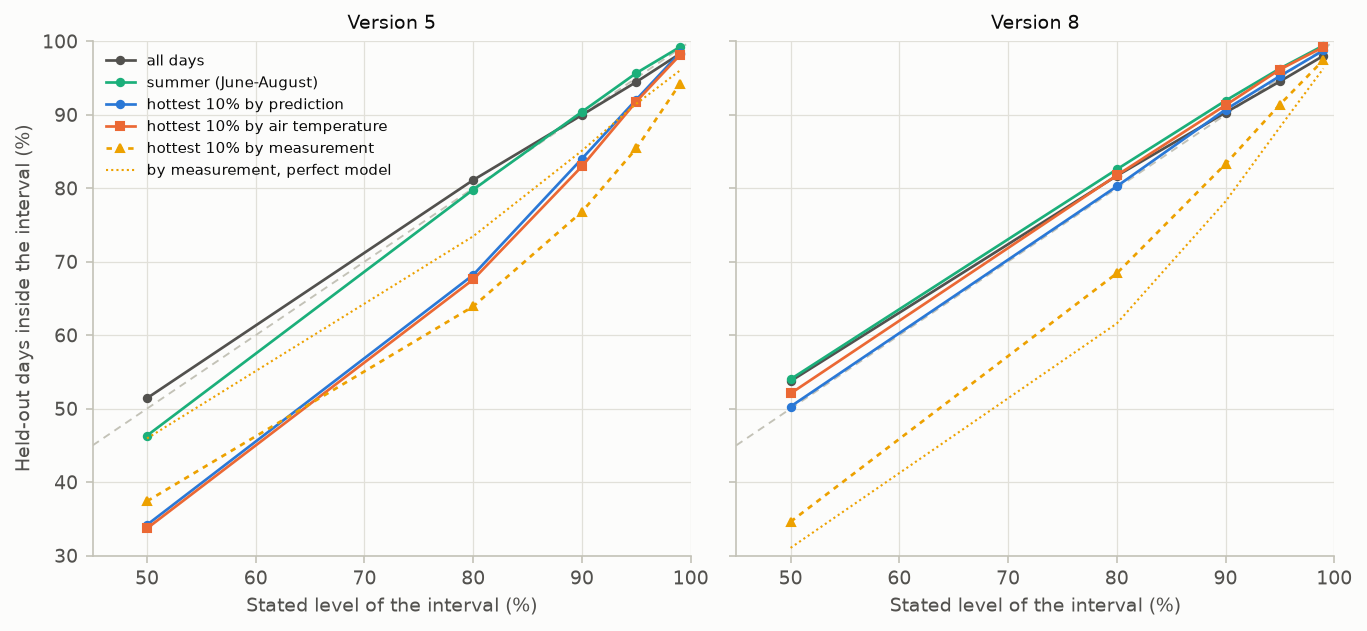
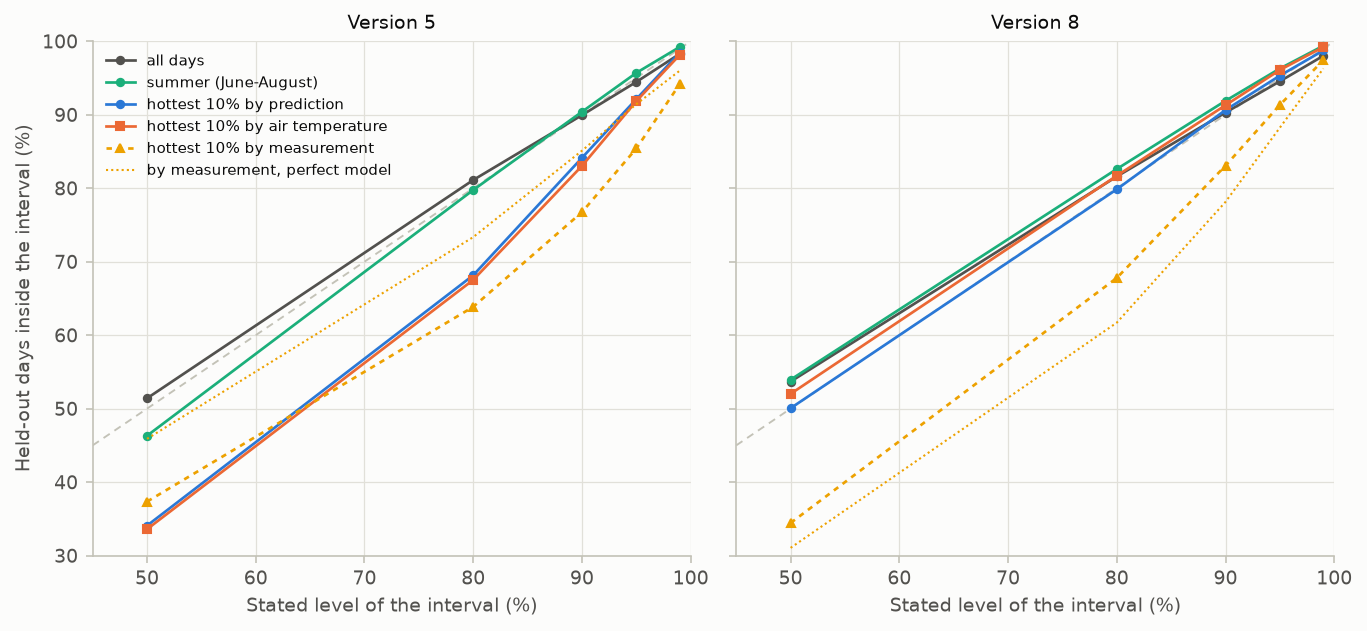
Validation V12-V14 rerun with the DE fix (18 min): V12, V13 PASS; V14 FAIL as before
V12: hiding the inputs changed no held-out year's RMSE by more than 0.007 C
(0.034 before), a 60-day buffer by no more than 0.008 C (0.041 before); much
of the earlier difference was optimizer scatter (another seed: 0.007 C, was
0.017). V13 unchanged; V14 within 0.1 point.

Claude-Session: https://claude.ai/code/session_01JyYTyNnMKAUkaRFLKK2LWV

diff --git a/validation/reports/V14.md b/validation/reports/V14.md
@@ -1,10 +1,10 @@
 # V14. Prediction intervals on the hottest days
 
-[Validation summary](../REPORT.md) · pyair2stream 0.5.0, commit 8860fc3, 2026-10-06 09:42 UTC · run time 2.5 minutes
+[Validation summary](../REPORT.md) · pyair2stream 0.5.0, commit 66372cd, 2026-10-09 01:27 UTC · run time 4.6 minutes
 
 **Result: FAIL.**
 
-Share of held-out daily measurements inside the 90% interval, pooled over the rivers: version 5: all days 90.0%, hottest 10% by prediction 84.0%, by air temperature 83.0%, summer 90.4%; version 8: all days 90.3%, hottest 10% by prediction 90.7%, by air temperature 91.3%, summer 91.9%. On the hottest days chosen by their measured temperature, the measurement lay above the 90% interval on 23.1%, 15.6% and below it on 0.1%, 1.1% of days (version 5, 8); a perfect model gives 14.5% above and 0.4% below, 21.4% above and 0.4% below on the days it would choose this way (5% each on fairly chosen days).
+Share of held-out daily measurements inside the 90% interval, pooled over the rivers: version 5: all days 89.9%, hottest 10% by prediction 84.1%, by air temperature 83.0%, summer 90.4%; version 8: all days 90.3%, hottest 10% by prediction 90.6%, by air temperature 91.3%, summer 91.9%. On the hottest days chosen by their measured temperature, the measurement lay above the 90% interval on 23.1%, 15.8% and below it on 0.1%, 1.1% of days (version 5, 8); a perfect model gives 14.5% above and 0.4% below, 21.5% above and 0.4% below on the days it would choose this way (5% each on fairly chosen days).
 
 ## Question
 
@@ -33,15 +33,15 @@ Each share is the fraction of measured held-out values inside the central range 
 | version | subset | level | share inside | accepted | within |
 |---|---|---|---|---|---|
 | 5 | hottest 10% by prediction | 80% | 68.2% | 70.0%-90.0% | no |
-| 5 | hottest 10% by prediction | 90% | 84.0% | 85.0%-95.0% | no |
+| 5 | hottest 10% by prediction | 90% | 84.1% | 85.0%-95.0% | no |
 | 5 | hottest 10% by prediction | 95% | 92.1% | 92.5%-97.5% | no |
-| 5 | hottest 10% by air temperature | 80% | 67.6% | 70.0%-90.0% | no |
+| 5 | hottest 10% by air temperature | 80% | 67.5% | 70.0%-90.0% | no |
 | 5 | hottest 10% by air temperature | 90% | 83.0% | 85.0%-95.0% | no |
-| 5 | hottest 10% by air temperature | 95% | 91.8% | 92.5%-97.5% | no |
-| 8 | hottest 10% by prediction | 80% | 80.3% | 70.0%-90.0% | yes |
-| 8 | hottest 10% by prediction | 90% | 90.7% | 85.0%-95.0% | yes |
+| 5 | hottest 10% by air temperature | 95% | 91.9% | 92.5%-97.5% | no |
+| 8 | hottest 10% by prediction | 80% | 79.9% | 70.0%-90.0% | yes |
+| 8 | hottest 10% by prediction | 90% | 90.6% | 85.0%-95.0% | yes |
 | 8 | hottest 10% by prediction | 95% | 95.3% | 92.5%-97.5% | yes |
-| 8 | hottest 10% by air temperature | 80% | 81.8% | 70.0%-90.0% | yes |
+| 8 | hottest 10% by air temperature | 80% | 81.7% | 70.0%-90.0% | yes |
 | 8 | hottest 10% by air temperature | 90% | 91.3% | 85.0%-95.0% | yes |
 | 8 | hottest 10% by air temperature | 95% | 96.1% | 92.5%-97.5% | yes |
 
@@ -49,79 +49,79 @@ Each share is the fraction of measured held-out values inside the central range 
 
 | version | scale | subset | values | 50% | 80% | 90% | 95% | 99% | above the 90% interval | below the 90% interval | mean error (predicted - measured) | RMSE |
 |---|---|---|---|---|---|---|---|---|---|---|---|---|
-| 5 | 7-day | all days | 17216 | 53.1% | 84.4% | 92.7% | 96.3% | 99.1% | 3.5% | 3.7% | -0.01 °C | 0.74 °C |
-| 5 | 7-day | summer (June-August) | 4416 | 51.0% | 82.9% | 92.5% | 96.9% | 99.3% | 0.5% | 7.0% | +0.30 °C | 0.75 °C |
-| 5 | 7-day | hottest 10% by prediction | 1724 | 32.3% | 72.6% | 87.5% | 94.8% | 99.0% | 1.2% | 11.4% | +0.47 °C | 0.93 °C |
-| 5 | 7-day | hottest 10% by air temperature | 1724 | 32.0% | 70.1% | 85.6% | 94.1% | 98.5% | 1.3% | 13.1% | +0.50 °C | 0.95 °C |
-| 5 | 7-day | hottest 10% by measurement | 1725 | 44.3% | 72.9% | 86.5% | 90.8% | 97.2% | 13.4% | 0.1% | -0.61 °C | 0.97 °C |
-| 5 | daily | all days | 17504 | 51.4% | 81.1% | 90.0% | 94.5% | 98.3% | 5.2% | 4.9% | -0.00 °C | 0.86 °C |
+| 5 | 7-day | all days | 17216 | 53.1% | 84.4% | 92.8% | 96.4% | 99.1% | 3.5% | 3.7% | -0.01 °C | 0.74 °C |
+| 5 | 7-day | summer (June-August) | 4416 | 50.8% | 82.9% | 92.5% | 96.9% | 99.3% | 0.5% | 7.0% | +0.30 °C | 0.75 °C |
+| 5 | 7-day | hottest 10% by prediction | 1724 | 32.2% | 72.6% | 87.5% | 94.8% | 99.0% | 1.2% | 11.3% | +0.47 °C | 0.93 °C |
+| 5 | 7-day | hottest 10% by air temperature | 1724 | 32.0% | 70.0% | 85.6% | 94.1% | 98.5% | 1.3% | 13.1% | +0.50 °C | 0.95 °C |
+| 5 | 7-day | hottest 10% by measurement | 1725 | 44.2% | 72.9% | 86.5% | 90.7% | 97.2% | 13.4% | 0.1% | -0.61 °C | 0.97 °C |
+| 5 | daily | all days | 17504 | 51.4% | 81.1% | 89.9% | 94.5% | 98.3% | 5.2% | 4.9% | -0.00 °C | 0.86 °C |
 | 5 | daily | summer (June-August) | 4416 | 46.3% | 79.8% | 90.4% | 95.7% | 99.2% | 2.3% | 7.3% | +0.30 °C | 0.85 °C |
-| 5 | daily | hottest 10% by prediction | 1752 | 34.2% | 68.2% | 84.0% | 92.1% | 98.4% | 3.2% | 12.8% | +0.47 °C | 1.02 °C |
-| 5 | daily | hottest 10% by air temperature | 1792 | 33.7% | 67.6% | 83.0% | 91.8% | 98.1% | 3.1% | 14.0% | +0.49 °C | 1.04 °C |
-| 5 | daily | hottest 10% by measurement | 1754 | 37.4% | 63.9% | 76.8% | 85.4% | 94.2% | 23.1% | 0.1% | -0.81 °C | 1.20 °C |
-| 8 | 7-day | all days | 17216 | 59.1% | 87.7% | 93.9% | 96.5% | 98.6% | 3.2% | 2.9% | -0.01 °C | 0.51 °C |
-| 8 | 7-day | summer (June-August) | 4416 | 60.8% | 88.3% | 95.1% | 98.3% | 99.6% | 1.6% | 3.3% | +0.06 °C | 0.46 °C |
-| 8 | 7-day | hottest 10% by prediction | 1724 | 60.6% | 91.4% | 97.5% | 99.2% | 99.5% | 1.0% | 1.5% | +0.00 °C | 0.44 °C |
-| 8 | 7-day | hottest 10% by air temperature | 1724 | 57.9% | 86.4% | 94.4% | 98.4% | 99.5% | 2.3% | 3.3% | +0.06 °C | 0.48 °C |
-| 8 | 7-day | hottest 10% by measurement | 1725 | 43.2% | 82.8% | 92.5% | 96.8% | 98.1% | 6.8% | 0.8% | -0.38 °C | 0.59 °C |
-| 8 | daily | all days | 17504 | 53.7% | 81.7% | 90.3% | 94.5% | 98.0% | 5.1% | 4.6% | -0.01 °C | 0.66 °C |
-| 8 | daily | summer (June-August) | 4416 | 54.0% | 82.6% | 91.9% | 96.3% | 99.4% | 3.4% | 4.7% | +0.06 °C | 0.59 °C |
-| 8 | daily | hottest 10% by prediction | 1752 | 50.3% | 80.3% | 90.7% | 95.3% | 98.7% | 6.0% | 3.3% | -0.07 °C | 0.63 °C |
-| 8 | daily | hottest 10% by air temperature | 1792 | 52.1% | 81.8% | 91.3% | 96.1% | 99.2% | 4.6% | 4.1% | +0.02 °C | 0.61 °C |
-| 8 | daily | hottest 10% by measurement | 1754 | 34.6% | 68.4% | 83.3% | 91.4% | 97.4% | 15.6% | 1.1% | -0.51 °C | 0.79 °C |
+| 5 | daily | hottest 10% by prediction | 1752 | 34.1% | 68.2% | 84.1% | 92.1% | 98.5% | 3.2% | 12.7% | +0.46 °C | 1.02 °C |
+| 5 | daily | hottest 10% by air temperature | 1792 | 33.6% | 67.5% | 83.0% | 91.9% | 98.2% | 3.1% | 13.9% | +0.49 °C | 1.04 °C |
+| 5 | daily | hottest 10% by measurement | 1754 | 37.3% | 63.9% | 76.7% | 85.4% | 94.2% | 23.1% | 0.1% | -0.81 °C | 1.20 °C |
+| 8 | 7-day | all days | 17216 | 59.2% | 87.7% | 93.9% | 96.5% | 98.6% | 3.2% | 2.9% | -0.01 °C | 0.51 °C |
+| 8 | 7-day | summer (June-August) | 4416 | 61.1% | 88.3% | 95.1% | 98.3% | 99.6% | 1.6% | 3.3% | +0.06 °C | 0.46 °C |
+| 8 | 7-day | hottest 10% by prediction | 1724 | 60.8% | 91.4% | 97.4% | 99.2% | 99.5% | 0.9% | 1.6% | +0.00 °C | 0.44 °C |
+| 8 | 7-day | hottest 10% by air temperature | 1724 | 57.9% | 86.4% | 94.4% | 98.4% | 99.5% | 2.3% | 3.4% | +0.06 °C | 0.48 °C |
+| 8 | 7-day | hottest 10% by measurement | 1725 | 43.5% | 82.9% | 92.6% | 96.9% | 98.1% | 6.7% | 0.8% | -0.38 °C | 0.59 °C |
+| 8 | daily | all days | 17504 | 53.7% | 81.6% | 90.3% | 94.5% | 98.0% | 5.1% | 4.6% | -0.01 °C | 0.66 °C |
+| 8 | daily | summer (June-August) | 4416 | 53.9% | 82.6% | 91.9% | 96.3% | 99.4% | 3.4% | 4.7% | +0.06 °C | 0.59 °C |
+| 8 | daily | hottest 10% by prediction | 1752 | 50.1% | 79.9% | 90.6% | 95.3% | 98.7% | 6.1% | 3.3% | -0.07 °C | 0.64 °C |
+| 8 | daily | hottest 10% by air temperature | 1792 | 52.0% | 81.7% | 91.3% | 96.1% | 99.2% | 4.6% | 4.1% | +0.02 °C | 0.61 °C |
+| 8 | daily | hottest 10% by measurement | 1754 | 34.4% | 67.8% | 83.1% | 91.3% | 97.4% | 15.8% | 1.1% | -0.51 °C | 0.79 °C |
 
 **Perfect-model reference: share inside each range when the 'measurement' is one of the simulations** ([csv](../results/V14_3.csv))
 
 | version | scale | subset | perfect model 50% | perfect model 80% | perfect model 90% | perfect model 95% | perfect model 99% | perfect model above the 90% interval | perfect model below the 90% interval |
 |---|---|---|---|---|---|---|---|---|---|
 | 5 | 7-day | all days | 48.6% | 77.0% | 88.0% | 93.8% | 98.3% | 6.4% | 5.6% |
-| 5 | 7-day | summer (June-August) | 53.9% | 80.4% | 89.6% | 95.0% | 98.3% | 3.6% | 6.8% |
-| 5 | 7-day | hottest 10% by prediction | 57.9% | 83.5% | 92.6% | 97.3% | 99.2% | 2.7% | 4.7% |
-| 5 | 7-day | hottest 10% by air temperature | 57.9% | 83.3% | 91.9% | 96.9% | 99.1% | 2.7% | 5.3% |
-| 5 | 7-day | hottest 10% by measurement | 49.2% | 73.3% | 86.4% | 92.7% | 95.9% | 13.2% | 0.5% |
+| 5 | 7-day | summer (June-August) | 53.9% | 80.5% | 89.5% | 95.0% | 98.3% | 3.7% | 6.8% |
+| 5 | 7-day | hottest 10% by prediction | 58.0% | 83.5% | 92.6% | 97.3% | 99.2% | 2.7% | 4.7% |
+| 5 | 7-day | hottest 10% by air temperature | 58.0% | 83.3% | 91.9% | 96.9% | 99.1% | 2.7% | 5.3% |
+| 5 | 7-day | hottest 10% by measurement | 49.1% | 73.3% | 86.3% | 92.6% | 95.9% | 13.2% | 0.5% |
 | 5 | daily | all days | 48.3% | 77.7% | 88.0% | 93.6% | 98.3% | 6.4% | 5.6% |
-| 5 | daily | summer (June-August) | 52.0% | 80.2% | 89.1% | 94.3% | 98.3% | 4.2% | 6.7% |
-| 5 | daily | hottest 10% by prediction | 53.8% | 83.0% | 92.0% | 96.5% | 99.5% | 3.1% | 4.9% |
-| 5 | daily | hottest 10% by air temperature | 53.4% | 82.9% | 91.4% | 95.9% | 99.3% | 3.4% | 5.2% |
-| 5 | daily | hottest 10% by measurement | 45.9% | 73.5% | 85.1% | 91.5% | 96.0% | 14.5% | 0.4% |
+| 5 | daily | summer (June-August) | 51.9% | 80.1% | 89.1% | 94.2% | 98.3% | 4.2% | 6.7% |
+| 5 | daily | hottest 10% by prediction | 53.7% | 83.1% | 92.1% | 96.5% | 99.5% | 3.1% | 4.8% |
+| 5 | daily | hottest 10% by air temperature | 53.3% | 82.9% | 91.4% | 95.9% | 99.3% | 3.4% | 5.2% |
+| 5 | daily | hottest 10% by measurement | 45.9% | 73.3% | 85.1% | 91.4% | 96.0% | 14.5% | 0.4% |
 | 8 | 7-day | all days | 50.7% | 80.7% | 90.6% | 95.4% | 98.9% | 5.0% | 4.4% |
 | 8 | 7-day | summer (June-August) | 49.3% | 81.1% | 90.2% | 94.7% | 98.9% | 5.8% | 4.0% |
-| 8 | 7-day | hottest 10% by prediction | 47.5% | 81.9% | 91.2% | 95.2% | 99.4% | 3.6% | 5.2% |
+| 8 | 7-day | hottest 10% by prediction | 47.5% | 81.9% | 91.2% | 95.2% | 99.4% | 3.7% | 5.2% |
 | 8 | 7-day | hottest 10% by air temperature | 45.9% | 80.5% | 90.3% | 94.6% | 99.4% | 5.6% | 4.1% |
 | 8 | 7-day | hottest 10% by measurement | 28.3% | 61.2% | 78.5% | 87.9% | 96.4% | 20.7% | 0.8% |
-| 8 | daily | all days | 50.3% | 80.3% | 90.4% | 95.2% | 98.9% | 5.1% | 4.4% |
-| 8 | daily | summer (June-August) | 49.7% | 80.3% | 90.4% | 95.0% | 98.7% | 6.1% | 3.5% |
-| 8 | daily | hottest 10% by prediction | 50.0% | 80.9% | 91.1% | 95.4% | 99.1% | 4.5% | 4.4% |
-| 8 | daily | hottest 10% by air temperature | 48.0% | 79.0% | 90.3% | 95.5% | 99.1% | 5.9% | 3.8% |
-| 8 | daily | hottest 10% by measurement | 31.1% | 61.6% | 78.2% | 88.3% | 96.3% | 21.4% | 0.4% |
+| 8 | daily | all days | 50.2% | 80.3% | 90.4% | 95.2% | 98.9% | 5.2% | 4.4% |
+| 8 | daily | summer (June-August) | 49.6% | 80.3% | 90.4% | 95.0% | 98.7% | 6.1% | 3.5% |
+| 8 | daily | hottest 10% by prediction | 49.7% | 80.8% | 91.0% | 95.4% | 99.2% | 4.6% | 4.4% |
+| 8 | daily | hottest 10% by air temperature | 48.0% | 79.1% | 90.2% | 95.5% | 99.1% | 6.0% | 3.8% |
+| 8 | daily | hottest 10% by measurement | 31.1% | 61.7% | 78.1% | 88.2% | 96.3% | 21.5% | 0.4% |
 
 **By river: daily values inside the 90% interval and mean error** ([csv](../results/V14_4.csv))
 
 | river | version | subset | days | inside 90% | above | below | mean error (predicted - measured) | RMSE |
 |---|---|---|---|---|---|---|---|---|
-| Dischmabach | 5 | all days | 3287 | 89.5% | 3.5% | 7.0% | -0.05 °C | 0.76 °C |
+| Dischmabach | 5 | all days | 3287 | 89.6% | 3.5% | 6.9% | -0.05 °C | 0.76 °C |
 | Dischmabach | 5 | hottest 10% by prediction | 329 | 80.9% | 11.6% | 7.6% | -0.35 °C | 0.98 °C |
-| Dischmabach | 5 | hottest 10% by air temperature | 329 | 75.4% | 11.6% | 13.1% | -0.20 °C | 1.07 °C |
-| Dischmabach | 8 | all days | 3287 | 88.5% | 6.1% | 5.4% | -0.05 °C | 0.65 °C |
+| Dischmabach | 5 | hottest 10% by air temperature | 329 | 75.4% | 11.6% | 13.1% | -0.20 °C | 1.06 °C |
+| Dischmabach | 8 | all days | 3287 | 88.7% | 6.0% | 5.3% | -0.05 °C | 0.65 °C |
 | Dischmabach | 8 | hottest 10% by prediction | 329 | 95.4% | 4.0% | 0.6% | -0.24 °C | 0.51 °C |
-| Dischmabach | 8 | hottest 10% by air temperature | 329 | 90.6% | 4.9% | 4.6% | -0.10 °C | 0.59 °C |
-| Mentue | 5 | all days | 3652 | 89.4% | 5.2% | 5.4% | -0.01 °C | 0.72 °C |
+| Dischmabach | 8 | hottest 10% by air temperature | 329 | 90.6% | 4.9% | 4.6% | -0.09 °C | 0.59 °C |
+| Mentue | 5 | all days | 3652 | 89.3% | 5.3% | 5.4% | -0.01 °C | 0.72 °C |
 | Mentue | 5 | hottest 10% by prediction | 366 | 91.8% | 4.4% | 3.8% | -0.06 °C | 0.62 °C |
-| Mentue | 5 | hottest 10% by air temperature | 366 | 93.4% | 3.6% | 3.0% | -0.09 °C | 0.60 °C |
+| Mentue | 5 | hottest 10% by air temperature | 366 | 93.4% | 3.6% | 3.0% | -0.10 °C | 0.60 °C |
 | Mentue | 8 | all days | 3652 | 89.7% | 5.0% | 5.3% | +0.00 °C | 0.70 °C |
 | Mentue | 8 | hottest 10% by prediction | 366 | 90.7% | 1.1% | 8.2% | +0.26 °C | 0.67 °C |
 | Mentue | 8 | hottest 10% by air temperature | 366 | 91.8% | 1.1% | 7.1% | +0.18 °C | 0.65 °C |
 | Rhône | 5 | all days | 10565 | 90.3% | 5.7% | 4.0% | +0.01 °C | 0.93 °C |
-| Rhône | 5 | hottest 10% by prediction | 1057 | 82.3% | 0.2% | 17.5% | +0.90 °C | 1.14 °C |
-| Rhône | 5 | hottest 10% by air temperature | 1097 | 81.8% | 0.4% | 17.9% | +0.89 °C | 1.14 °C |
-| Rhône | 8 | all days | 10565 | 91.0% | 4.8% | 4.1% | +0.00 °C | 0.64 °C |
-| Rhône | 8 | hottest 10% by prediction | 1057 | 89.2% | 8.3% | 2.5% | -0.14 °C | 0.66 °C |
-| Rhône | 8 | hottest 10% by air temperature | 1097 | 91.3% | 5.7% | 3.0% | +0.01 °C | 0.60 °C |
+| Rhône | 5 | hottest 10% by prediction | 1057 | 82.5% | 0.2% | 17.3% | +0.90 °C | 1.14 °C |
+| Rhône | 5 | hottest 10% by air temperature | 1097 | 81.9% | 0.4% | 17.8% | +0.89 °C | 1.14 °C |
+| Rhône | 8 | all days | 10565 | 91.0% | 4.9% | 4.2% | +0.00 °C | 0.64 °C |
+| Rhône | 8 | hottest 10% by prediction | 1057 | 89.1% | 8.5% | 2.4% | -0.13 °C | 0.66 °C |
+| Rhône | 8 | hottest 10% by air temperature | 1097 | 91.3% | 5.7% | 2.9% | +0.01 °C | 0.60 °C |
 
 ## What this means
 
-Version 5: on the days predicted to be hottest the 90% interval held 84.0% of the time, against 90.0% on all days; the measurement lay above it on 3.2% and below it on 12.8% of those days (5% each if right). The model's RMSE on those days was 1.02 °C, against 0.86 °C on all days, and its mean error +0.47 °C (positive: predicted too warm). The interval holds less often there than on average: the model's error on its hottest predictions is not its typical error, as V11 found for yearly peaks. Check intervals on hot days at your site.
+Version 5: on the days predicted to be hottest the 90% interval held 84.1% of the time, against 89.9% on all days; the measurement lay above it on 3.2% and below it on 12.7% of those days (5% each if right). The model's RMSE on those days was 1.02 °C, against 0.86 °C on all days, and its mean error +0.46 °C (positive: predicted too warm). The interval holds less often there than on average: the model's error on its hottest predictions is not its typical error, as V11 found for yearly peaks. Check intervals on hot days at your site.
 
-Version 8: on the days predicted to be hottest the 90% interval held 90.7% of the time, against 90.3% on all days; the measurement lay above it on 6.0% and below it on 3.3% of those days (5% each if right). The model's RMSE on those days was 0.63 °C, against 0.66 °C on all days, and its mean error -0.07 °C (positive: predicted too warm).
+Version 8: on the days predicted to be hottest the 90% interval held 90.6% of the time, against 90.3% on all days; the measurement lay above it on 6.1% and below it on 3.3% of those days (5% each if right). The model's RMSE on those days was 0.64 °C, against 0.66 °C on all days, and its mean error -0.07 °C (positive: predicted too warm).
 
 Checking an interval only on the days when the measured temperature was highest (for example, the days a limit was exceeded) is a biased test: those days were chosen partly because their error was positive, so even for a correct interval the measurement lies above it more often than stated and below it less often. Here a perfect model had the 'measurement' above its 90% interval on 14%-21% of such days, instead of 5%. To check intervals on hot days, choose the days by the prediction or by the air temperature, as here.

diff --git a/validation/reports/V12.md b/validation/reports/V12.md
@@ -1,10 +1,10 @@
 # V12. Cross-validation design: what is hidden, and from which years
 
-[Validation summary](../REPORT.md) · pyair2stream 0.5.0, commit 13e8f81, 2026-10-06 09:18 UTC · run time 9.3 minutes
+[Validation summary](../REPORT.md) · pyair2stream 0.5.0, commit 66372cd, 2026-10-09 01:27 UTC · run time 12.6 minutes
 
 **Result: PASS.**
 
-Over 96 held-out river-years, hiding the inputs during calibration changed no year's RMSE by more than 0.034 °C (another optimizer seed alone: 0.017 °C), and the share of days inside the 90% interval from 90.1% to 90.1%; a 60-day buffer changed no year's RMSE by more than 0.041 °C. Calibrating on earlier years only gave, on its 78 years, an RMSE of 0.787 °C against 0.786 °C, 90% intervals that held on 87.1% of days against 89.6%, and a training-year sigma of 0.69 °C against 0.75 °C.
+Over 96 held-out river-years, hiding the inputs during calibration changed no year's RMSE by more than 0.007 °C (another optimizer seed alone: 0.007 °C), and the share of days inside the 90% interval from 90.1% to 90.1%; a 60-day buffer changed no year's RMSE by more than 0.008 °C. Calibrating on earlier years only gave, on its 78 years, an RMSE of 0.787 °C against 0.785 °C, 90% intervals that held on 87.1% of days against 89.6%, and a training-year sigma of 0.69 °C against 0.75 °C.
 
 ## Question
 
@@ -38,22 +38,22 @@ Every variant is compared with its reference (B with B0, the others with A) on t
 | variant | compared with | years | RMSE (°C) | RMSE of reference, same years | largest change in a year's RMSE | days inside 90% | reference, same years | 7-day means inside 90% | highest daily mean: inside 90% range | highest daily mean: mean error | highest 7-day mean: inside 90% range | highest 7-day mean: mean error | days above threshold: inside 90% range | days above threshold: mean error |
 |---|---|---|---|---|---|---|---|---|---|---|---|---|---|---|
 | A: default: the year's water temperatures hidden | A | 96 | 0.764 | 0.764 | 0 | 90.1% | 90.1% | 93.3% | 80% (A 80%) | -0.12 (A -0.12) °C | 79% (A 79%) | -0.34 (A -0.34) °C | 85% (A 85%) | -3.79 (A -3.79) days |
-| A2: default, another optimizer seed | A | 96 | 0.764 | 0.764 | 0.017 | 90.1% | 90.1% | 93.3% | 80% (A 80%) | -0.12 (A -0.12) °C | 79% (A 79%) | -0.34 (A -0.34) °C | 85% (A 85%) | -3.78 (A -3.79) days |
-| B0: gap-tolerant mode, nothing else hidden | A | 96 | 0.764 | 0.764 | 0.029 | 90.1% | 90.1% | 93.3% | 80% (A 80%) | -0.12 (A -0.12) °C | 79% (A 79%) | -0.34 (A -0.34) °C | 85% (A 85%) | -3.78 (A -3.79) days |
-| B: inputs also hidden during calibration | B0 | 96 | 0.765 | 0.764 | 0.034 | 90.1% | 90.1% | 93.3% | 81% (B0 80%) | -0.12 (B0 -0.12) °C | 79% (B0 79%) | -0.34 (B0 -0.34) °C | 85% (B0 85%) | -3.84 (B0 -3.78) days |
-| D: 60-day buffer around the year | A | 96 | 0.765 | 0.764 | 0.041 | 90.0% | 90.1% | 93.2% | 81% (A 80%) | -0.13 (A -0.12) °C | 80% (A 79%) | -0.34 (A -0.34) °C | 85% (A 85%) | -3.90 (A -3.79) days |
-| C: forward only: calibrated on earlier years | A | 78 | 0.787 | 0.786 | 0.061 | 87.1% | 89.6% | 90.6% | 73% (A 79%) | +0.04 (A -0.06) °C | 82% (A 78%) | -0.25 (A -0.33) °C | 82% (A 83%) | -1.82 (A -3.88) days |
+| A2: default, another optimizer seed | A | 96 | 0.764 | 0.764 | 0.007 | 90.1% | 90.1% | 93.3% | 80% (A 80%) | -0.12 (A -0.12) °C | 80% (A 79%) | -0.34 (A -0.34) °C | 85% (A 85%) | -3.80 (A -3.79) days |
+| B0: gap-tolerant mode, nothing else hidden | A | 96 | 0.764 | 0.764 | 0.004 | 90.1% | 90.1% | 93.3% | 80% (A 80%) | -0.12 (A -0.12) °C | 79% (A 79%) | -0.34 (A -0.34) °C | 85% (A 85%) | -3.77 (A -3.79) days |
+| B: inputs also hidden during calibration | B0 | 96 | 0.764 | 0.764 | 0.007 | 90.1% | 90.1% | 93.3% | 80% (B0 80%) | -0.12 (B0 -0.12) °C | 79% (B0 79%) | -0.34 (B0 -0.34) °C | 85% (B0 85%) | -3.77 (B0 -3.77) days |
+| D: 60-day buffer around the year | A | 96 | 0.765 | 0.764 | 0.008 | 90.1% | 90.1% | 93.2% | 80% (A 80%) | -0.12 (A -0.12) °C | 80% (A 79%) | -0.34 (A -0.34) °C | 85% (A 85%) | -3.83 (A -3.79) days |
+| C: forward only: calibrated on earlier years | A | 78 | 0.787 | 0.785 | 0.062 | 87.1% | 89.6% | 90.6% | 73% (A 79%) | +0.04 (A -0.06) °C | 82% (A 78%) | -0.24 (A -0.33) °C | 82% (A 83%) | -1.72 (A -3.90) days |
 
 **By river and version** ([csv](../results/V12_2.csv))
 
 | river | version | years | RMSE A | RMSE B0 | RMSE B (inputs hidden) | years forward | RMSE A, same years | RMSE C (forward) | days inside 90%: A, same years | days inside 90%: C | sigma: A, same years | sigma: C |
 |---|---|---|---|---|---|---|---|---|---|---|---|---|
 | Dischmabach | 5 | 9 | 0.756 | 0.756 | 0.756 | 6 | 0.766 | 0.767 | 89.0% | 88.1% | 0.745 | 0.726 |
-| Dischmabach | 8 | 9 | 0.65 | 0.651 | 0.651 | 6 | 0.647 | 0.652 | 88.5% | 88.0% | 0.636 | 0.632 |
-| Mentue | 5 | 10 | 0.717 | 0.717 | 0.717 | 7 | 0.758 | 0.758 | 87.8% | 86.0% | 0.698 | 0.659 |
-| Mentue | 8 | 10 | 0.702 | 0.702 | 0.703 | 7 | 0.731 | 0.738 | 88.7% | 86.9% | 0.669 | 0.638 |
+| Dischmabach | 8 | 9 | 0.65 | 0.65 | 0.651 | 6 | 0.647 | 0.652 | 88.5% | 88.0% | 0.636 | 0.632 |
+| Mentue | 5 | 10 | 0.717 | 0.717 | 0.717 | 7 | 0.758 | 0.758 | 87.7% | 86.0% | 0.698 | 0.659 |
+| Mentue | 8 | 10 | 0.702 | 0.702 | 0.702 | 7 | 0.731 | 0.732 | 88.7% | 86.6% | 0.669 | 0.629 |
 | Rhône | 5 | 29 | 0.931 | 0.931 | 0.931 | 26 | 0.946 | 0.946 | 89.9% | 87.2% | 0.924 | 0.854 |
-| Rhône | 8 | 29 | 0.64 | 0.641 | 0.642 | 26 | 0.653 | 0.656 | 90.4% | 86.9% | 0.629 | 0.561 |
+| Rhône | 8 | 29 | 0.64 | 0.64 | 0.64 | 26 | 0.653 | 0.655 | 90.5% | 86.9% | 0.629 | 0.561 |
 
 ### Parameters and their jackknife intervals
 
@@ -63,17 +63,15 @@ Change of each fold's parameters in units of A's jackknife standard error, and t
 
 | river | version | folds | A2 against A: folds with a parameter moved > 2 SE | A2 against A: jackknife SE ratio, median (range) | B against B0: folds with a parameter moved > 2 SE | B against B0: jackknife SE ratio, median (range) |
 |---|---|---|---|---|---|---|
-| Dischmabach | 5 | 9 | 0 | 0.93 (0.00-1.02) | 0 | 1.05 (0.00-1.32) |
-| Dischmabach | 8 | 9 | 0 | 0.35 (0.00-1.03) | 0 | 0.57 (0.32-1.09) |
-| Mentue | 5 | 10 | 0 | 0.94 (0.78-1.05) | 0 | 0.99 (0.99-1.02) |
-| Mentue | 8 | 10 | 1 | 1.55 (1.15-5.38) | 1 | 3.40 (1.22-3.99) |
-| Rhône | 5 | 29 | 0 | 0.87 (0.79-0.95) | 0 | 0.80 (0.75-0.97) |
-| Rhône | 8 | 29 | 0 | 0.95 (0.83-1.05) | 1 | 1.17 (0.66-5.41) |
+| Dischmabach | 5 | 9 | 0 | 1.01 (0.83-1.84) | 0 | 0.98 (0.97-1.36) |
+| Dischmabach | 8 | 9 | 0 | 0.74 (0.00-1.10) | 0 | 0.92 (0.00-1.31) |
+| Mentue | 5 | 10 | 0 | 0.99 (0.96-1.00) | 0 | 1.03 (1.02-1.06) |
+| Mentue | 8 | 10 | 0 | 1.04 (0.98-1.18) | 0 | 1.07 (1.02-1.17) |
+| Rhône | 5 | 29 | 0 | 0.65 (0.55-0.96) | 0 | 0.87 (0.80-0.92) |
+| Rhône | 8 | 29 | 0 | 1.06 (0.92-1.10) | 0 | 1.09 (0.99-1.23) |
 
 ## What this means
 
 Hiding the inputs changed no result by more than the tolerance, as expected: the model never uses measured water temperature, only air temperature and discharge, so hiding a year's water temperatures removes all of that year's information about the answer. The inputs are needed to predict the year, in cross-validation as in any use of the model; during calibration they only shape the first days to weeks of the following year. Nor did the buffer: whole years are long compared with the time the model's errors persist.
 
 Calibrating on earlier years only is the test for forecasting into a changing future. Here its 90% intervals held 2.5 percentage points less often than the default's on the same years, because the error size estimated from fewer, earlier years (0.69 °C) was smaller than that from all other years (0.75 °C). V5 (the later years of each record) tests the same situation with DE-MCMC. For predictions of future years, quote V5 and V10 as well as the cross-validation.
-
-With another optimizer seed alone, 1 fold ended on parameters more than 2 jackknife standard errors away, with almost the same fit: parameters that trade off (equifinality) make single folds unstable, and the jackknife standard errors inherit this (see the table). Read the jackknife intervals of poorly determined parameters as indicative, and check them with a second seed.

diff --git a/validation/REPORT.md b/validation/REPORT.md
@@ -26,14 +26,14 @@ Generated by `validation/run_all.py`. This page summarises each check; its full 
 
 | | |
 |---|---|
-| Date | 2026-10-09 01:08 UTC |
-| pyair2stream | 0.5.0, commit 46b9d02 at the start of the run |
+| Date | 2026-10-09 01:27 UTC |
+| pyair2stream | 0.5.0, commit 66372cd at the start of the run |
 | Mode | full |
-| Run time | 34.7 minutes |
+| Run time | 18.2 minutes |
 | Python | 3.11.15 |
 | Packages | numpy 2.4.6, scipy 1.17.1, pandas 3.0.6, emcee 3.1.6, numba 0.68.0 |
 | Machine | Linux x86_64, 4 CPUs |
-| Other checks | V1, V2, V3: run of 2026-10-08 23:09 UTC (pyair2stream 0.5.0, commit 54bc6df at the start of the run, full mode) · V4: run of 2026-10-09 00:33 UTC (pyair2stream 0.5.0, commit 4bf3843 at the start of the run, full mode) · V12: run of 2026-10-06 09:18 UTC (pyair2stream 0.5.0, commit 13e8f81 at the start of the run, full mode) · V13: run of 2026-10-06 09:39 UTC (pyair2stream 0.5.0, commit 13faeb2 at the start of the run, full mode) · V14: run of 2026-10-06 09:42 UTC (pyair2stream 0.5.0, commit 8860fc3 at the start of the run, full mode) · V15: run of 2026-10-08 22:13 UTC (pyair2stream 0.5.0, commit e48e3c4 at the start of the run, full mode) |
+| Other checks | V1, V2, V3: run of 2026-10-08 23:09 UTC (pyair2stream 0.5.0, commit 54bc6df at the start of the run, full mode) · V4: run of 2026-10-09 00:33 UTC (pyair2stream 0.5.0, commit 4bf3843 at the start of the run, full mode) · V5, V6, V7, V8, V9, V10, V11: run of 2026-10-09 01:08 UTC (pyair2stream 0.5.0, commit 46b9d02 at the start of the run, full mode) · V15: run of 2026-10-08 22:13 UTC (pyair2stream 0.5.0, commit e48e3c4 at the start of the run, full mode) |
 
 ## V1
 
@@ -230,7 +230,7 @@ Over 48 held-out river-years per version, the uncorrected 90% ranges held in 73%
 
 **Result: PASS.**
 
-Over 96 held-out river-years, hiding the inputs during calibration changed no year's RMSE by more than 0.034 °C (another optimizer seed alone: 0.017 °C), and the share of days inside the 90% interval from 90.1% to 90.1%; a 60-day buffer changed no year's RMSE by more than 0.041 °C. Calibrating on earlier years only gave, on its 78 years, an RMSE of 0.787 °C against 0.786 °C, 90% intervals that held on 87.1% of days against 89.6%, and a training-year sigma of 0.69 °C against 0.75 °C.
+Over 96 held-out river-years, hiding the inputs during calibration changed no year's RMSE by more than 0.007 °C (another optimizer seed alone: 0.007 °C), and the share of days inside the 90% interval from 90.1% to 90.1%; a 60-day buffer changed no year's RMSE by more than 0.008 °C. Calibrating on earlier years only gave, on its 78 years, an RMSE of 0.787 °C against 0.785 °C, 90% intervals that held on 87.1% of days against 89.6%, and a training-year sigma of 0.69 °C against 0.75 °C.
 
 ![Left: change in each held-out year's RMSE when the optimizer seed changes, when the year's inputs are hidden during calibration (against gap-tolerant mode with the inputs kept), with a 60-day buffer, and when only earlier years are used (shaded: ±0.05 °C). Right: share of held-out days inside the 90% interval, default against forward only, on the same years.](figures/V12_variants.png)
 
@@ -262,7 +262,7 @@ Over 96 held-out river-years, hiding the inputs during calibration changed no ye
 
 **Result: FAIL.**
 
-Share of held-out daily measurements inside the 90% interval, pooled over the rivers: version 5: all days 90.0%, hottest 10% by prediction 84.0%, by air temperature 83.0%, summer 90.4%; version 8: all days 90.3%, hottest 10% by prediction 90.7%, by air temperature 91.3%, summer 91.9%. On the hottest days chosen by their measured temperature, the measurement lay above the 90% interval on 23.1%, 15.6% and below it on 0.1%, 1.1% of days (version 5, 8); a perfect model gives 14.5% above and 0.4% below, 21.4% above and 0.4% below on the days it would choose this way (5% each on fairly chosen days).
+Share of held-out daily measurements inside the 90% interval, pooled over the rivers: version 5: all days 89.9%, hottest 10% by prediction 84.1%, by air temperature 83.0%, summer 90.4%; version 8: all days 90.3%, hottest 10% by prediction 90.6%, by air temperature 91.3%, summer 91.9%. On the hottest days chosen by their measured temperature, the measurement lay above the 90% interval on 23.1%, 15.8% and below it on 0.1%, 1.1% of days (version 5, 8); a perfect model gives 14.5% above and 0.4% below, 21.5% above and 0.4% below on the days it would choose this way (5% each on fairly chosen days).
 
 ![Share of held-out daily measurements inside the interval at each stated level, by subset of days. On the grey diagonal the interval holds. Days chosen by their measured temperature (dashed) are a biased selection: even a perfect model (dotted) departs from the diagonal there.](figures/V14_hot_days.png)
 

diff --git a/validation/reports/V13.md b/validation/reports/V13.md
@@ -1,6 +1,6 @@
 # V13. Reproduces the 2015 published results
 
-[Validation summary](../REPORT.md) · pyair2stream 0.5.0, commit 13faeb2, 2026-10-06 09:39 UTC · run time 1.0 minutes
+[Validation summary](../REPORT.md) · pyair2stream 0.5.0, commit 66372cd, 2026-10-09 01:27 UTC · run time 1.0 minutes
 
 **Result: PASS.**
 
@@ -60,17 +60,17 @@ DE with RK4 on the calibration years, the RMS objective and the authors' paramet
 | river | version | published cal RMSE | published parameters with RK4 | DE with RK4 | DE minus published parameters | largest parameter difference (% of range) | same parameters | a1 | a2 | a3 | a4 | a5 | a6 | a7 | a8 |
 |---|---|---|---|---|---|---|---|---|---|---|---|---|---|---|---|
 | Mentue | 8 | 0.62 | 0.615 | 0.6152 | -0 | 0.04 | yes | 0.890 | 0.650 | 0.766 | 0.129 | 2.324 | 1.539 | 0.603 | 0.242 |
-| Mentue | 7 | 0.62 | 0.624 | 0.6236 | -0 | 0 | yes | 0.912 | 0.623 | 0.741 |  | 1.764 | 1.189 | 0.607 | 0.182 |
-| Mentue | 5 | 0.65 | 0.648 | 0.6476 | -0 | 0.03 | yes | 3.149 | 0.708 | 1.059 |  |  | 1.632 | 0.585 |  |
+| Mentue | 7 | 0.62 | 0.624 | 0.6236 | -0 | 0 | yes | 0.912 | 0.623 | 0.741 |  | 1.765 | 1.189 | 0.607 | 0.182 |
+| Mentue | 5 | 0.65 | 0.648 | 0.6476 | -0 | 0.03 | yes | 3.148 | 0.708 | 1.059 |  |  | 1.632 | 0.585 |  |
 | Mentue | 4 | 0.77 | 0.768 | 0.7677 | -0 | 0.01 | yes | 0.935 | 0.504 | 0.620 | 0.212 |  |  |  |  |
-| Mentue | 3 | 0.78 | 0.775 | 0.775 | -0 | 0 | yes | 1.002 | 0.549 | 0.674 |  |  |  |  |  |
-| Rhône | 8 | 0.58 | 0.581 | 0.581 | -0 | 0.29 | yes | 0.342 | 0.217 | 0.176 | 0.723 | 7.716 | 2.201 | 0.529 | 1.270 |
-| Rhône | 7 | 0.61 | 0.609 | 0.6093 | -0.0001 | 0.39 | yes | 1.087 | 0.187 | 0.276 |  | 3.693 | 1.229 | 0.521 | 0.671 |
-| Rhône | 5 | 0.88 | 0.875 | 0.8755 | -0 | 0.01 | yes | 9.171 | 0.351 | 1.834 |  |  | 1.303 | 0.485 |  |
-| Rhône | 4 | 0.9 | 0.900 | 0.9 | -0 | 0.01 | yes | 9.305 | 0.531 | 2.111 | -0.251 |  |  |  |  |
-| Rhône | 3 | 0.91 | 0.908 | 0.9084 | -0 | 0 | yes | 8.072 | 0.455 | 1.827 |  |  |  |  |  |
-| Dischmabach | 8 | 0.61 | 0.606 | 0.6057 | -0 | 0.03 | yes | 4.794 | 0.629 | 1.410 | 0.270 | 0.000 | 4.912 | 0.582 | 0.637 |
-| Dischmabach | 7 | 0.64 | 0.638 | 0.6377 | -0 | 0.03 | yes | 3.536 | 0.455 | 1.073 |  | 0.000 | 3.080 | 0.587 | 0.384 |
+| Mentue | 3 | 0.78 | 0.775 | 0.775 | -0 | 0.01 | yes | 1.000 | 0.549 | 0.673 |  |  |  |  |  |
+| Rhône | 8 | 0.58 | 0.581 | 0.581 | 0 | 0.95 | yes | 0.324 | 0.221 | 0.176 | 0.709 | 7.963 | 2.263 | 0.529 | 1.308 |
+| Rhône | 7 | 0.61 | 0.609 | 0.6093 | -0.0001 | 0.48 | yes | 1.069 | 0.186 | 0.273 |  | 3.711 | 1.227 | 0.521 | 0.673 |
+| Rhône | 5 | 0.88 | 0.875 | 0.8755 | -0 | 0.01 | yes | 9.171 | 0.351 | 1.833 |  |  | 1.303 | 0.485 |  |
+| Rhône | 4 | 0.9 | 0.900 | 0.9 | -0 | 0.18 | yes | 9.267 | 0.529 | 2.102 | -0.254 |  |  |  |  |
+| Rhône | 3 | 0.91 | 0.908 | 0.9084 | -0 | 0.05 | yes | 8.061 | 0.454 | 1.825 |  |  |  |  |  |
+| Dischmabach | 8 | 0.61 | 0.606 | 0.6057 | -0 | 0.09 | yes | 4.793 | 0.629 | 1.408 | 0.270 | 0.000 | 4.921 | 0.582 | 0.638 |
+| Dischmabach | 7 | 0.64 | 0.638 | 0.6377 | -0 | 0.03 | yes | 3.539 | 0.455 | 1.074 |  | 0.000 | 3.079 | 0.587 | 0.383 |
 | Dischmabach | 5 | 0.7 | 0.698 | 0.6978 | -0.0001 | 0.05 | yes | 7.486 | 0.651 | 2.768 |  |  | 7.044 | 0.606 |  |
 | Dischmabach | 4 | 0.88 | 0.879 | 0.8793 | -0 | 0.01 | yes | 5.917 | 0.929 | 2.285 | -0.147 |  |  |  |  |
 | Dischmabach | 3 | 0.89 | 0.890 | 0.8904 | -0 | 0.01 | yes | 5.803 | 0.923 | 2.277 |  |  |  |  |  |
